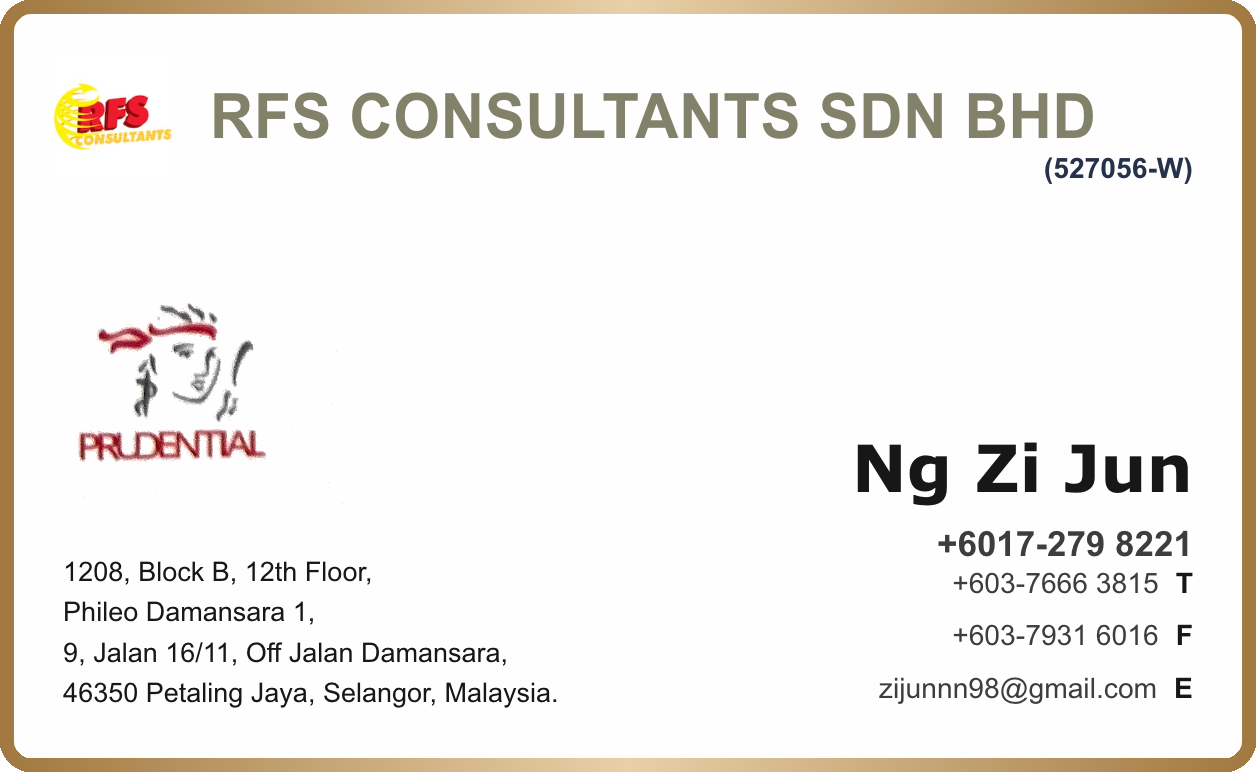
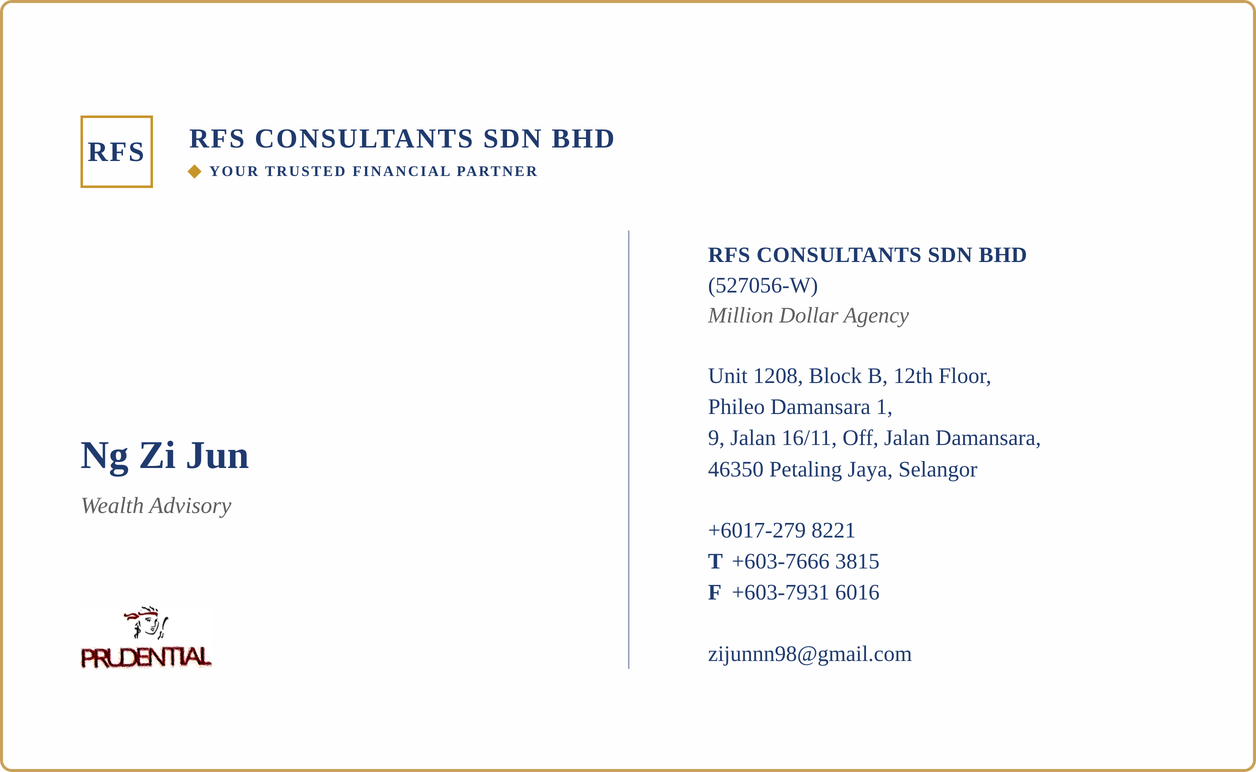
Retypeset Zi Jun's card front to match the printed original
The front was set in Georgia at sizes eyeballed rather than measured, so it
read noticeably heavier and wider than the physical card. Sizes are now taken
off the reference photo as a percentage of card width (the reference is 1206px
wide, so 1cqw == 12.06 reference px):

  name        5.4cqw -> 3.15cqw
  wordmark    3.3cqw -> 2.2cqw
  body text   2.2-2.45cqw -> 1.75-1.78cqw
  RFS mark    7.4cqw -> 5.8cqw

Tracking was the bigger culprit — tracked caps in a Times-metric face run wider
than the card's own, so the wordmark drops from .155em to .06em and the tagline
from .255em to .12em. The wordmark now measures 34.1% of card width against
33.8% on the reference.

Georgia gives way to Tinos, which is metric-compatible with Times New Roman (the
card's actual face) and therefore renders the same on Android and Windows where
Times isn't installed.

Both columns now hang off the bottom edge as they do in print, rather than being
vertically centred, and the divider is a true 50/50 split. Our card is 1.64:1
against the reference crop's 1.85:1, so the surplus height is spread across the
top padding, the name-to-logo gap and the bottom rather than pooling in one gap.

The Prudential source has its face icon at roughly 2.5x its correct size next to
the wordmark; prudential-lockup.png rebuilds it to the printed proportions.

Also refreshes the two surfaces that were still showing the old front: the
link-share preview WhatsApp renders (regenerated from the live front at 2x and
[…]

diff --git a/zijun.html b/zijun.html
@@ -17,6 +17,9 @@
 <meta name="twitter:description" content="Ng Zi Jun — RFS Consultants Sdn Bhd | Digital Business Card"/>
 <meta name="twitter:image" content="https://makersco.github.io/makersco-digital-card/src/assets/zijun-og-preview.png"/>
 <title>Ng Zi Jun — RFS Consultants</title>
+<link rel="preconnect" href="https://fonts.googleapis.com"/>
+<link rel="preconnect" href="https://fonts.gstatic.com" crossorigin/>
+<link href="https://fonts.googleapis.com/css2?family=Tinos:ital,wght@0,400;0,700;1,400;1,700&display=swap" rel="stylesheet"/>
 <style>
 *{box-sizing:border-box;margin:0;padding:0}
 :root{
@@ -26,6 +29,9 @@
   --ink2:#3d3d3d;
   --company:#82826a;
   --navy:#26324a;
+  --rfs-navy:#1f3a6e;
+  --rfs-gold:#c8952c;
+  --rfs-grey:#5f5f5f;
   --red:#a5222d;
   --gold-border:#c9a15a;
   --text3:rgba(245,233,214,.34);
@@ -75,35 +81,86 @@ body::before{
   container-type:inline-size;
 }
 
-/* ── Front: replica of the physical RFS Consultants / Prudential card ── */
+/* ── Front: replica of the RFS Consultants corporate card ──
+   Every size is in cqw (percent of the card's own width) so the whole face
+   scales as one. The numbers are measured off the printed card: the reference
+   is 1206px wide, so 1cqw == 12.06 reference px. The RFS lockup is drawn in
+   CSS rather than shipped as an image so it stays crisp at any size.
+   Tinos is metric-compatible with Times New Roman — the card's actual face —
+   so it renders identically on Android/Windows where Times isn't installed. */
 .card-front{cursor:pointer}
-.biz-front{position:absolute;inset:0}
-.biz-rfs-logo{position:absolute;left:3%;top:5.5%;width:10%;aspect-ratio:1;object-fit:contain}
-.biz-company-name{
-  position:absolute;left:16%;top:8.8%;right:5%;
-  font-weight:800;font-size:5.1cqw;letter-spacing:.01em;
-  color:var(--company);white-space:nowrap;transform:scaleX(.96);transform-origin:left center;
+.rfs-front{
+  position:absolute;inset:0;
+  background:var(--paper);
+  padding:9cqw 6.2cqw 8cqw;
+  display:flex;flex-direction:column;
+  font-family:Tinos,'Times New Roman',Times,serif;
+  color:var(--rfs-navy);
 }
-.biz-company-reg{
-  position:absolute;right:4%;top:18.5%;
-  font-size:2.3cqw;font-weight:600;color:var(--navy);
+
+/* Logo lockup — square RFS mark + wordmark + tagline */
+.rfs-lockup{display:flex;align-items:center;gap:2.9cqw}
+.rfs-mark{
+  width:5.8cqw;height:5.8cqw;flex-shrink:0;
+  border:.22cqw solid var(--rfs-gold);
+  display:flex;align-items:center;justify-content:center;
+  font-size:2.25cqw;font-weight:700;letter-spacing:.06em;line-height:1;
 }
-.biz-prudential-logo{position:absolute;left:4%;top:35%;width:23%;aspect-ratio:458/371;object-fit:contain}
-.biz-address{
-  position:absolute;left:4%;bottom:6%;width:52%;
-  font-size:2.2cqw;line-height:1.5;color:var(--ink);
+.rfs-lockup-text{display:flex;flex-direction:column;gap:.95cqw}
+.rfs-wordmark{font-size:2.2cqw;font-weight:700;letter-spacing:.06em;line-height:1;white-space:nowrap}
+.rfs-tagline{
+  display:flex;align-items:center;gap:.8cqw;
+  font-size:1.18cqw;font-weight:700;letter-spacing:.12em;line-height:1;white-space:nowrap;
 }
-.biz-person{position:absolute;right:4%;top:55.5%;text-align:right}
-.biz-name{font-size:5.3cqw;font-weight:800;color:var(--ink);white-space:nowrap;font-family:Verdana,Arial,sans-serif}
-.biz-phone{font-size:2.85cqw;font-weight:600;color:var(--ink2);margin-top:.5em;white-space:nowrap}
-.biz-contacts{position:absolute;right:4%;bottom:6%;text-align:right;font-size:2.3cqw;line-height:1.85;color:var(--ink2)}
-.biz-contacts .lbl{font-weight:700;color:var(--ink);margin-left:.6em}
+.rfs-diamond{width:.8cqw;height:.8cqw;background:var(--rfs-gold);transform:rotate(45deg);flex-shrink:0}
+
+/* Two columns split by the hairline rule, both hanging off the bottom edge
+   exactly as they do on the printed card. */
+.rfs-body{flex:1;display:grid;grid-template-columns:1fr 1fr;padding-top:3.4cqw}
+.rfs-left{display:flex;flex-direction:column;justify-content:flex-end;gap:7cqw;padding-right:5cqw}
+.rfs-right{
+  position:relative;padding-left:6.4cqw;
+  display:flex;flex-direction:column;justify-content:flex-end;gap:2.4cqw;
+}
+.rfs-right::before{
+  content:'';position:absolute;left:0;top:0;bottom:0;
+  width:.12cqw;background:rgba(31,58,110,.45);
+}
+
+.rfs-person-name{font-size:3.15cqw;font-weight:700;line-height:1.1;white-space:nowrap}
+.rfs-person-role{font-size:1.85cqw;font-style:italic;color:var(--rfs-grey);margin-top:1.2cqw}
+.rfs-partners img{width:10.5cqw;height:auto;display:block}
+
+.rfs-org-name{font-size:1.75cqw;font-weight:700;letter-spacing:.02em;line-height:1.35;white-space:nowrap}
+.rfs-org-reg{font-size:1.78cqw;line-height:1.35}
+.rfs-org-tag{font-size:1.78cqw;font-style:italic;color:var(--rfs-grey);line-height:1.35}
+.rfs-address{font-size:1.78cqw;line-height:1.4}
+.rfs-contacts{display:flex;flex-direction:column}
+.rfs-contact{font-size:1.78cqw;line-height:1.4}
+.rfs-lbl{display:inline-block;width:1.9cqw;font-weight:700}
 
 /* ── Back: contact actions ── */
 .card-back{cursor:pointer;transform:rotateY(180deg) translateZ(0.01px);-webkit-transform:rotateY(180deg) translateZ(0.01px);display:flex;flex-direction:column;padding:5.5% 5% 4.5%}
-.back-header{display:flex;justify-content:space-between;align-items:center;gap:10px}
+.back-header{display:flex;justify-content:center;align-items:center;gap:10px}
 .back-logos{display:flex;align-items:center;gap:10px}
 .back-logos img{height:56px;width:auto;object-fit:contain}
+
+/* Stacked RFS lockup — the back-of-card variant of the mark used on the front */
+.rfs-stack{
+  display:flex;flex-direction:column;align-items:center;gap:1.4cqw;
+  font-family:Tinos,'Times New Roman',Times,serif;color:var(--rfs-navy);
+}
+.rfs-stack .rfs-mark{
+  width:8.4cqw;height:8.4cqw;
+  border:.3cqw solid var(--rfs-gold);
+  display:flex;align-items:center;justify-content:center;
+  font-size:3.4cqw;font-weight:700;letter-spacing:.04em;
+}
+.rfs-stack-text{display:flex;flex-direction:column;align-items:center;gap:.7cqw}
+.rfs-stack-name{font-size:2.6cqw;font-weight:700;letter-spacing:.14em;line-height:1}
+.rfs-stack-sub{font-size:1.7cqw;font-weight:600;letter-spacing:.3em;line-height:1}
+.rfs-stack-rule{width:80%;height:.12cqw;background:var(--rfs-gold);margin:.5cqw 0}
+.rfs-stack-tagline{font-size:1.15cqw;font-weight:700;letter-spacing:.14em;line-height:1}
 .back-actions{flex:1;display:flex;flex-direction:column;gap:3.2%;justify-content:center;padding:2% 0}
 .back-row{
   display:flex;align-items:center;gap:14px;
@@ -150,25 +207,45 @@ body::before{
 
     <!-- Front: exact replica of the physical business card. Tap anywhere to flip. -->
     <div class="card-face card-front" id="cardFront" onclick="flipCard()">
-      <div class="biz-front">
-        <img class="biz-rfs-logo" src="src/assets/rfs-consultants-logo.jpeg" alt="RFS Consultants"/>
-        <div class="biz-company-name">RFS CONSULTANTS SDN BHD</div>
-        <div class="biz-company-reg">(527056-W)</div>
-        <img class="biz-prudential-logo" src="src/assets/prudential-logo.png" alt="Prudential"/>
-        <div class="biz-address">
-          1208, Block B, 12th Floor,<br/>
-          Phileo Damansara 1,<br/>
-          9, Jalan 16/11, Off Jalan Damansara,<br/>
-          46350 Petaling Jaya, Selangor, Malaysia.
+      <div class="rfs-front">
+        <div class="rfs-lockup">
+          <div class="rfs-mark">RFS</div>
+          <div class="rfs-lockup-text">
+            <div class="rfs-wordmark">RFS CONSULTANTS SDN BHD</div>
+            <div class="rfs-tagline"><span class="rfs-diamond"></span>YOUR TRUSTED FINANCIAL PARTNER</div>
+          </div>
         </div>
-        <div class="biz-person">
-          <div class="biz-name">Ng Zi Jun</div>
-          <div class="biz-phone">+6017-279 8221</div>
-        </div>
-        <div class="biz-contacts">
-          <div>+603-7666 3815<span class="lbl">T</span></div>
-          <div>+603-7931 6016<span class="lbl">F</span></div>
-          <div>zijunnn98@gmail.com<span class="lbl">E</span></div>
+
+        <div class="rfs-body">
+          <div class="rfs-left">
+            <div>
+              <div class="rfs-person-name">Ng Zi Jun</div>
+              <div class="rfs-person-role">Wealth Advisory</div>
+            </div>
+            <div class="rfs-partners">
+              <img src="src/assets/prudential-lockup.png" alt="Prudential"/>
+            </div>
+          </div>
+
+          <div class="rfs-right">
+            <div>
+              <div class="rfs-org-name">RFS CONSULTANTS SDN BHD</div>
+              <div class="rfs-org-reg">(527056-W)</div>
+              <div class="rfs-org-tag">Million Dollar Agency</div>
+            </div>
+            <div class="rfs-address">
+              Unit 1208, Block B, 12th Floor,<br/>
+              Phileo Damansara 1,<br/>
+              9, Jalan 16/11, Off, Jalan Damansara,<br/>
+              46350 Petaling Jaya, Selangor
+            </div>
+            <div class="rfs-contacts">
+              <div class="rfs-contact">+6017-279 8221</div>
+              <div class="rfs-contact"><span class="rfs-lbl">T</span>+603-7666 3815</div>
+              <div class="rfs-contact"><span class="rfs-lbl">F</span>+603-7931 6016</div>
+            </div>
+            <div class="rfs-contact">zijunnn98@gmail.com</div>
+          </div>
         </div>
       </div>
     </div>
@@ -177,7 +254,15 @@ body::before{
     <div class="card-face card-back" id="cardBack">
       <div class="back-header">
         <div class="back-logos">
-          <img src="src/assets/rfs-consultants-logo.jpeg" alt="RFS Consultants"/>
+          <div class="rfs-stack">
+            <div class="rfs-mark">RFS</div>
+            <div class="rfs-stack-text">
+              <div class="rfs-stack-name">RFS CONSULTANTS</div>
+              <div class="rfs-stack-sub">SDN BHD</div>
+              <div class="rfs-stack-rule"></div>
+              <div class="rfs-stack-tagline">YOUR TRUSTED FINANCIAL PARTNER</div>
+            </div>
+          </div>
         </div>
       </div>
       <div class="back-actions">

diff --git a/zijun-qr.html b/zijun-qr.html
@@ -6,6 +6,9 @@
 <meta name="viewport" content="width=device-width,initial-scale=1"/>
 <meta name="description" content="Ng Zi Jun — RFS Consultants Sdn Bhd | Scan to view digital business card"/>
 <title>Ng Zi Jun — RFS Consultants</title>
+<link rel="preconnect" href="https://fonts.googleapis.com"/>
+<link rel="preconnect" href="https://fonts.gstatic.com" crossorigin/>
+<link href="https://fonts.googleapis.com/css2?family=Tinos:ital,wght@0,400;0,700;1,400;1,700&display=swap" rel="stylesheet"/>
 <style>
 *{box-sizing:border-box;margin:0;padding:0}
 :root{
@@ -14,6 +17,9 @@
   --ink:#171717;
   --ink2:#3d3d3d;
   --company:#82826a;
+  --rfs-navy:#1f3a6e;
+  --rfs-gold:#c8952c;
+  --rfs-grey:#5f5f5f;
   --gold-border:#c9a15a;
   --text3:rgba(245,233,214,.34);
   --gold:#C9A96E;
@@ -49,16 +55,42 @@ body::before{
   border:3px solid var(--gold-border);
   box-shadow:0 24px 60px rgba(0,0,0,.7);
   overflow:hidden;
-  display:flex;align-items:center;justify-content:center;gap:6%;
-  padding:5% 6%;
   container-type:inline-size;
 }
-.qr-img{height:100%;aspect-ratio:1;object-fit:contain;flex-shrink:0}
-.qr-info{display:flex;flex-direction:column;justify-content:center;min-width:0}
-.qr-name{font-size:6.2cqw;font-weight:800;color:var(--ink);white-space:nowrap;font-family:Verdana,Arial,sans-serif}
-.qr-company{font-size:3cqw;font-weight:600;color:var(--company);margin-top:.5em;white-space:nowrap}
-.qr-hint{font-size:2.4cqw;color:var(--ink2);margin-top:1.4em;line-height:1.5}
-.qr-link{font-size:2.2cqw;color:var(--ink2);margin-top:1em;word-break:break-all}
+
+/* Typography mirrors the card front (zijun.html) so the QR sheet and the card
+   read as one set. Tinos is metric-compatible with Times New Roman — the face
+   the printed card uses — so it renders the same on Android and Windows. */
+.qr-front{
+  position:absolute;inset:0;
+  padding:7cqw 6.2cqw 6.5cqw;
+  display:flex;flex-direction:column;
+  font-family:Tinos,'Times New Roman',Times,serif;
+  color:var(--rfs-navy);
+}
+.rfs-lockup{display:flex;align-items:center;gap:2.9cqw}
+.rfs-mark{
+  width:5.8cqw;height:5.8cqw;flex-shrink:0;
+  border:.22cqw solid var(--rfs-gold);
+  display:flex;align-items:center;justify-content:center;
+  font-size:2.25cqw;font-weight:700;letter-spacing:.06em;line-height:1;
+}
+.rfs-lockup-text{display:flex;flex-direction:column;gap:.95cqw}
+.rfs-wordmark{font-size:2.2cqw;font-weight:700;letter-spacing:.06em;line-height:1;white-space:nowrap}
+.rfs-tagline{
+  display:flex;align-items:center;gap:.8cqw;
+  font-size:1.18cqw;font-weight:700;letter-spacing:.12em;line-height:1;white-space:nowrap;
+}
+.rfs-diamond{width:.8cqw;height:.8cqw;background:var(--rfs-gold);transform:rotate(45deg);flex-shrink:0}
+
+.qr-body{flex:1;display:flex;align-items:center;gap:6cqw;padding-top:3cqw}
+.qr-img{width:34cqw;height:auto;flex-shrink:0;display:block}
+.qr-info{display:flex;flex-direction:column;min-width:0}
+.qr-name{font-size:3.15cqw;font-weight:700;line-height:1.1;white-space:nowrap}
+.qr-role{font-size:1.85cqw;font-style:italic;color:var(--rfs-grey);margin-top:1.2cqw}
+.qr-company{font-size:1.75cqw;font-weight:700;letter-spacing:.02em;margin-top:2.6cqw;white-space:nowrap}
+.qr-hint{font-size:1.78cqw;line-height:1.4;margin-top:2.6cqw}
+.qr-link{font-size:1.78cqw;color:var(--rfs-navy);margin-top:2.2cqw;word-break:break-all}
 
 .flip-caption{font-size:10.5px;color:var(--text3);text-align:center;letter-spacing:.05em;margin:16px 0 4px;position:relative;z-index:1}
 .powered{width:min(620px,92vw);margin:18px auto 0;text-align:center;font-size:10px;color:var(--text3);letter-spacing:.06em;position:relative;z-index:1;font-family:'Times New Roman',Times,serif}
@@ -69,12 +101,25 @@ body::before{
 
 <div class="card-wrap">
   <div class="card-face">
-    <img class="qr-img" src="src/assets/zijun-qr-code.png" alt="QR code that opens a WhatsApp chat with Ng Zi Jun"/>
-    <div class="qr-info">
-      <div class="qr-name">Ng Zi Jun</div>
-      <div class="qr-company">RFS Consultants Sdn Bhd</div>
-      <div class="qr-hint">Scan to open WhatsApp and send a hello, with a link to my digital business card.</div>
-      <a class="qr-link" href="https://wa.me/60172798221?text=Hi%20Zi%20Jun%2C%20I%20would%20love%20to%20connect%20%F0%9F%98%8A%20https%3A//makersco.github.io/makersco-digital-card/zijun" target="_blank" rel="noopener">wa.me/60172798221</a>
+    <div class="qr-front">
+      <div class="rfs-lockup">
+        <div class="rfs-mark">RFS</div>
+        <div class="rfs-lockup-text">
+          <div class="rfs-wordmark">RFS CONSULTANTS SDN BHD</div>
+          <div class="rfs-tagline"><span class="rfs-diamond"></span>YOUR TRUSTED FINANCIAL PARTNER</div>
+        </div>
+      </div>
+
+      <div class="qr-body">
+        <img class="qr-img" src="src/assets/zijun-qr-code.png" alt="QR code that opens a WhatsApp chat with Ng Zi Jun"/>
+        <div class="qr-info">
+          <div class="qr-name">Ng Zi Jun</div>
+          <div class="qr-role">Wealth Advisory</div>
+          <div class="qr-company">RFS CONSULTANTS SDN BHD</div>
+          <div class="qr-hint">Scan to open WhatsApp and send a hello, with a link to my digital business card.</div>
+          <a class="qr-link" href="https://wa.me/60172798221?text=Hi%20Zi%20Jun%2C%20I%20would%20love%20to%20connect%20%F0%9F%98%8A%20https%3A//makersco.github.io/makersco-digital-card/zijun" target="_blank" rel="noopener">wa.me/60172798221</a>
+        </div>
+      </div>
     </div>
   </div>
 </div>
